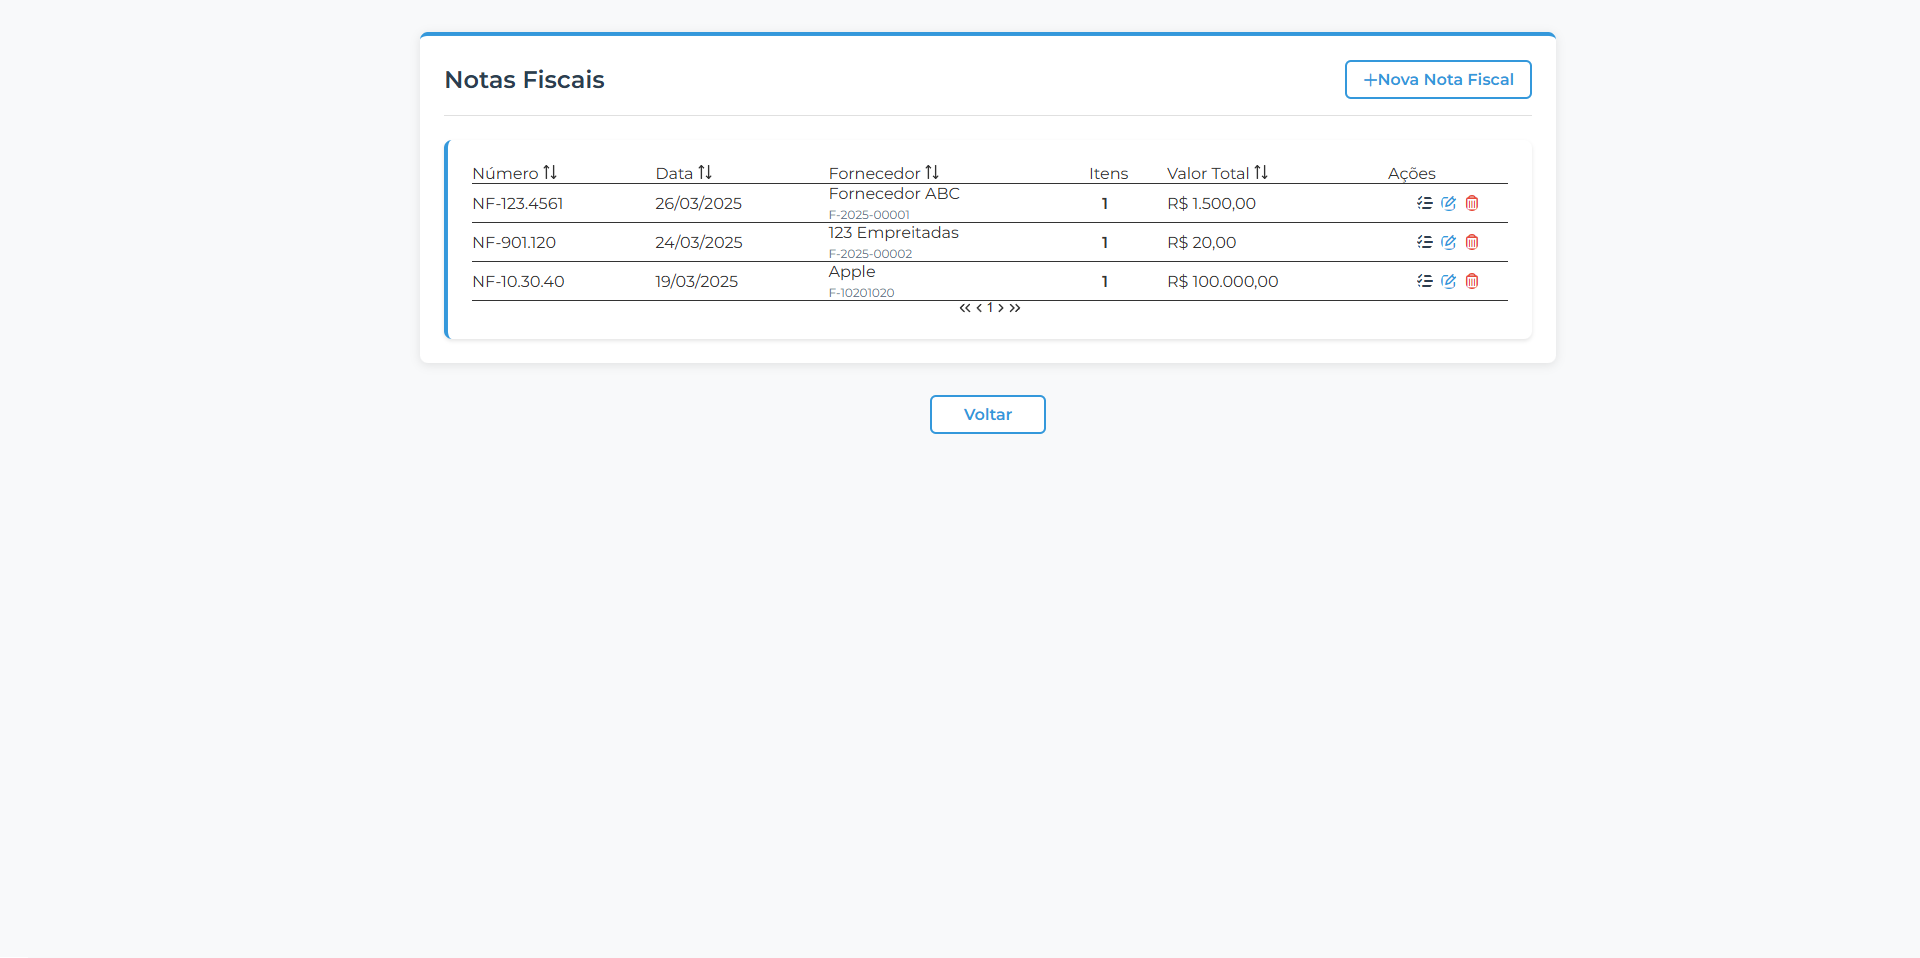
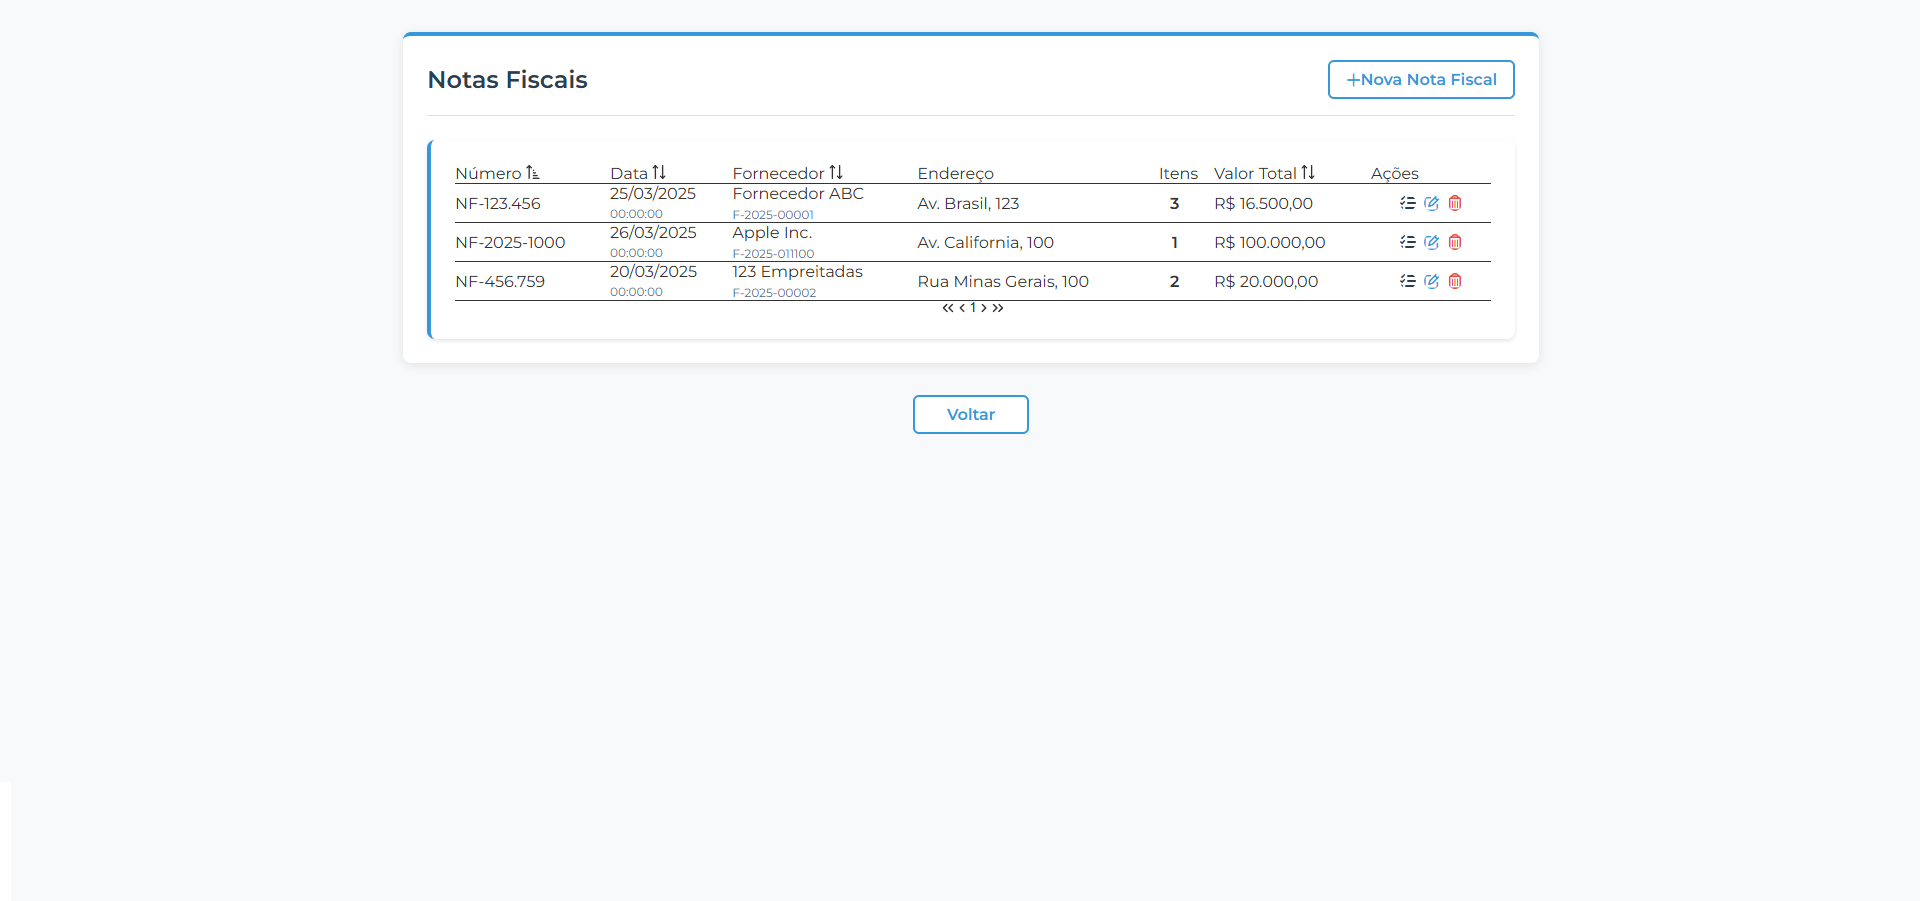
Corrigido bug do display do endereço do invoice

diff --git a/frontend/src/app/features/invoice/components/invoice-list/invoice-list.component.html b/frontend/src/app/features/invoice/components/invoice-list/invoice-list.component.html
@@ -12,6 +12,7 @@
         <th pSortableColumn="invoiceNumber">Número <p-sortIcon field="invoiceNumber"></p-sortIcon></th>
         <th pSortableColumn="issueDate">Data <p-sortIcon field="issueDate"></p-sortIcon></th>
         <th pSortableColumn="supplier.companyName">Fornecedor <p-sortIcon field="supplier.companyName"></p-sortIcon></th>
+        <th>Endereço</th>
         <th>Itens</th>
         <th pSortableColumn="totalValue">Valor Total <p-sortIcon field="totalValue"></p-sortIcon></th>
         <th style="width: 120px">Ações</th>
@@ -20,11 +21,19 @@
     <ng-template pTemplate="body" let-invoice>
       <tr>
         <td>{{ invoice.invoiceNumber }}</td>
-        <td>{{ formatDate(invoice.issueDate) }}</td>
+        <td>
+          <div>{{ formatDate(invoice.issueDate) }}</div>
+          <small class="invoice-time">{{ formatTime(invoice.issueDate) }}</small>
+        </td>
         <td>
           <div class="supplier-info">
             <span>{{ invoice.supplier.companyName }}</span>
             <small class="supplier-code">{{ invoice.supplier.supplierCode }}</small>
+          </div>
+        </td>
+        <td>
+          <div class="supplier-info">
+            <span>{{ formatAddress(invoice) }}</span>
           </div>
         </td>
         <td>
@@ -60,7 +69,7 @@
     </ng-template>
     <ng-template pTemplate="emptymessage">
       <tr>
-        <td colspan="6" class="text-center">
+        <td colspan="7" class="text-center">
           Nenhuma nota fiscal encontrada
         </td>
       </tr>

diff --git a/frontend/src/app/features/invoice/components/invoice-list/invoice-list.component.ts b/frontend/src/app/features/invoice/components/invoice-list/invoice-list.component.ts
@@ -1,6 +1,6 @@
 import { Component, OnInit, Output, EventEmitter, ViewChild, ElementRef } from '@angular/core';
 import { InvoiceService } from '../../../../core/services/api/invoice.service';
-import { InvoiceResponseDTO } from '../../../../core/models/invoice.model';
+import { Invoice, InvoiceResponseDTO } from '../../../../core/models/invoice.model';
 import { MessageService } from 'primeng/api';
 import { CommonModule } from '@angular/common';
 import { TableModule } from 'primeng/table';
@@ -125,6 +125,18 @@ export class InvoiceListComponent implements OnInit {
 
   formatDate(date: Date): string {
     return new Date(date).toLocaleDateString('pt-BR');
+  }
+
+  formatTime(date: Date): string {
+    return new Date(date).toLocaleTimeString('pt-BR', { 
+      hour: '2-digit', 
+      minute: '2-digit', 
+      second: '2-digit' 
+    });
+  }
+
+  formatAddress(invoice: Invoice): string {
+    return invoice.address || 'Endereço não disponível';
   }
 
   formatCurrency(value: number): string {

diff --git a/frontend/src/app/features/invoice/components/invoice-list/invoice-list.component.scss b/frontend/src/app/features/invoice/components/invoice-list/invoice-list.component.scss
@@ -41,6 +41,12 @@
     font-weight: 600;
   }
 
+  .invoice-time {
+    color: #64748b;
+    font-size: 0.75rem;
+    margin-top: 0.25rem;
+  }
+  
   .action-buttons {
     display: flex;
     gap: 0.5rem;
